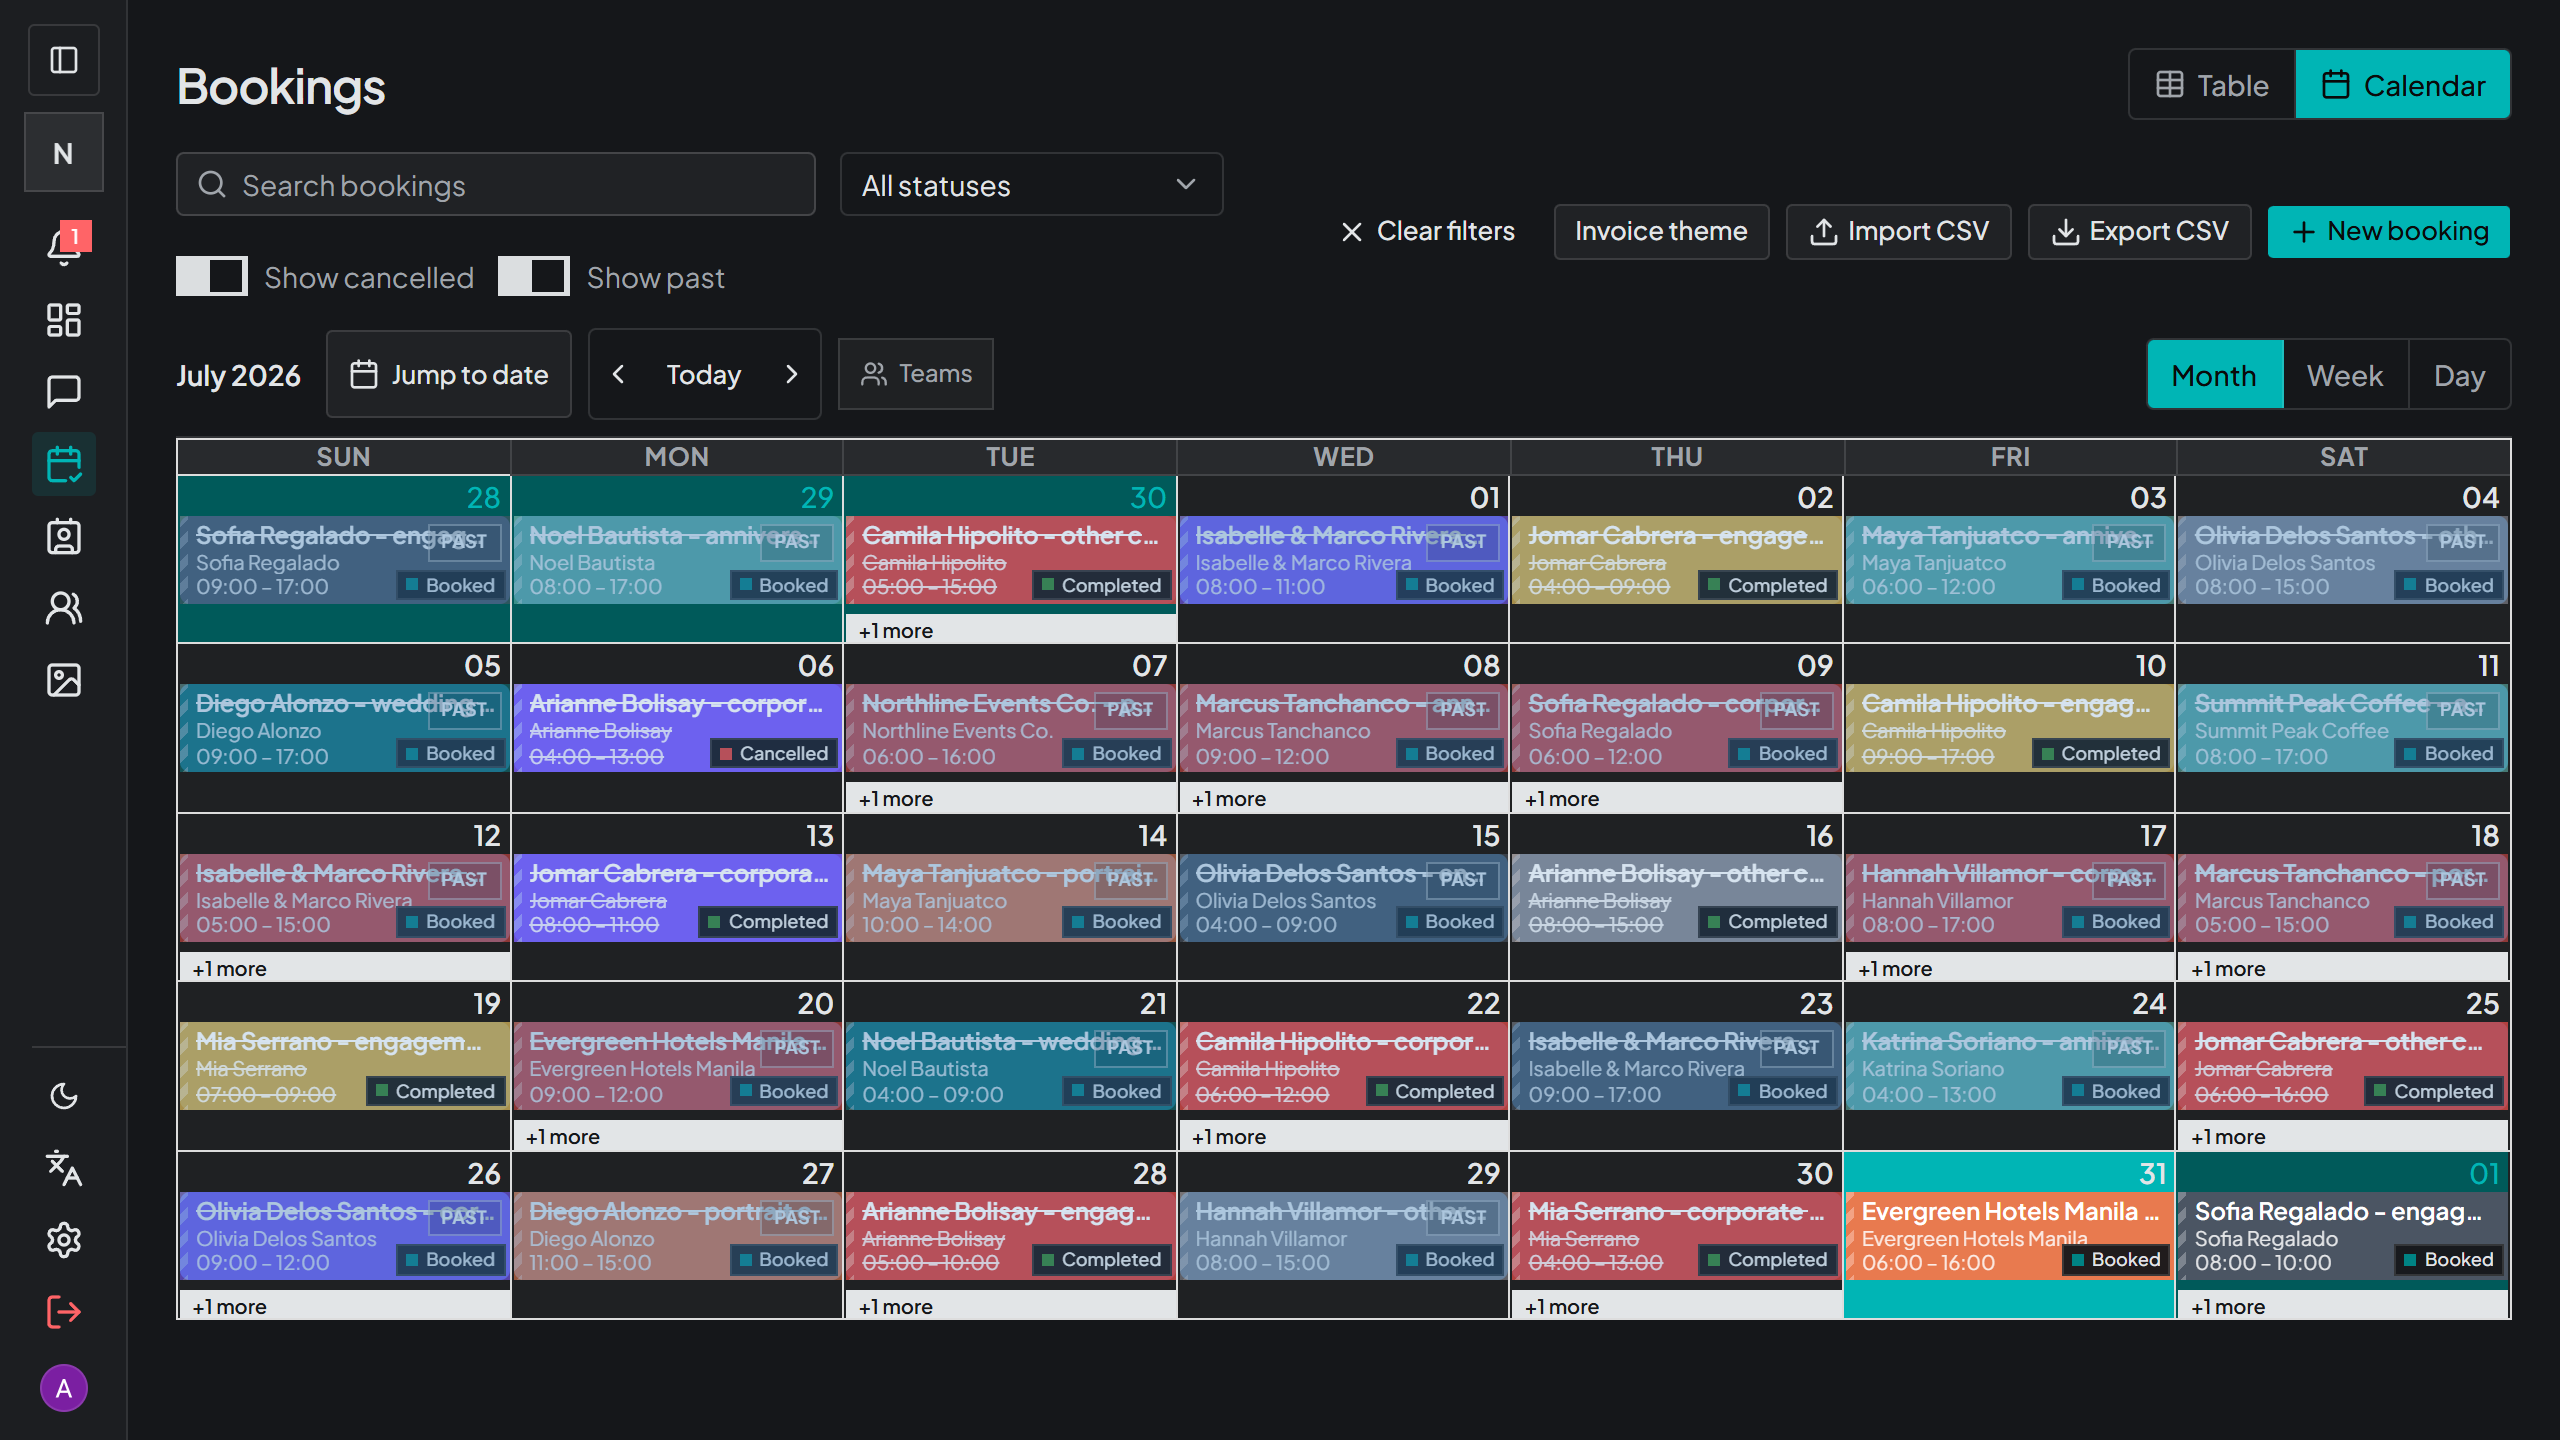
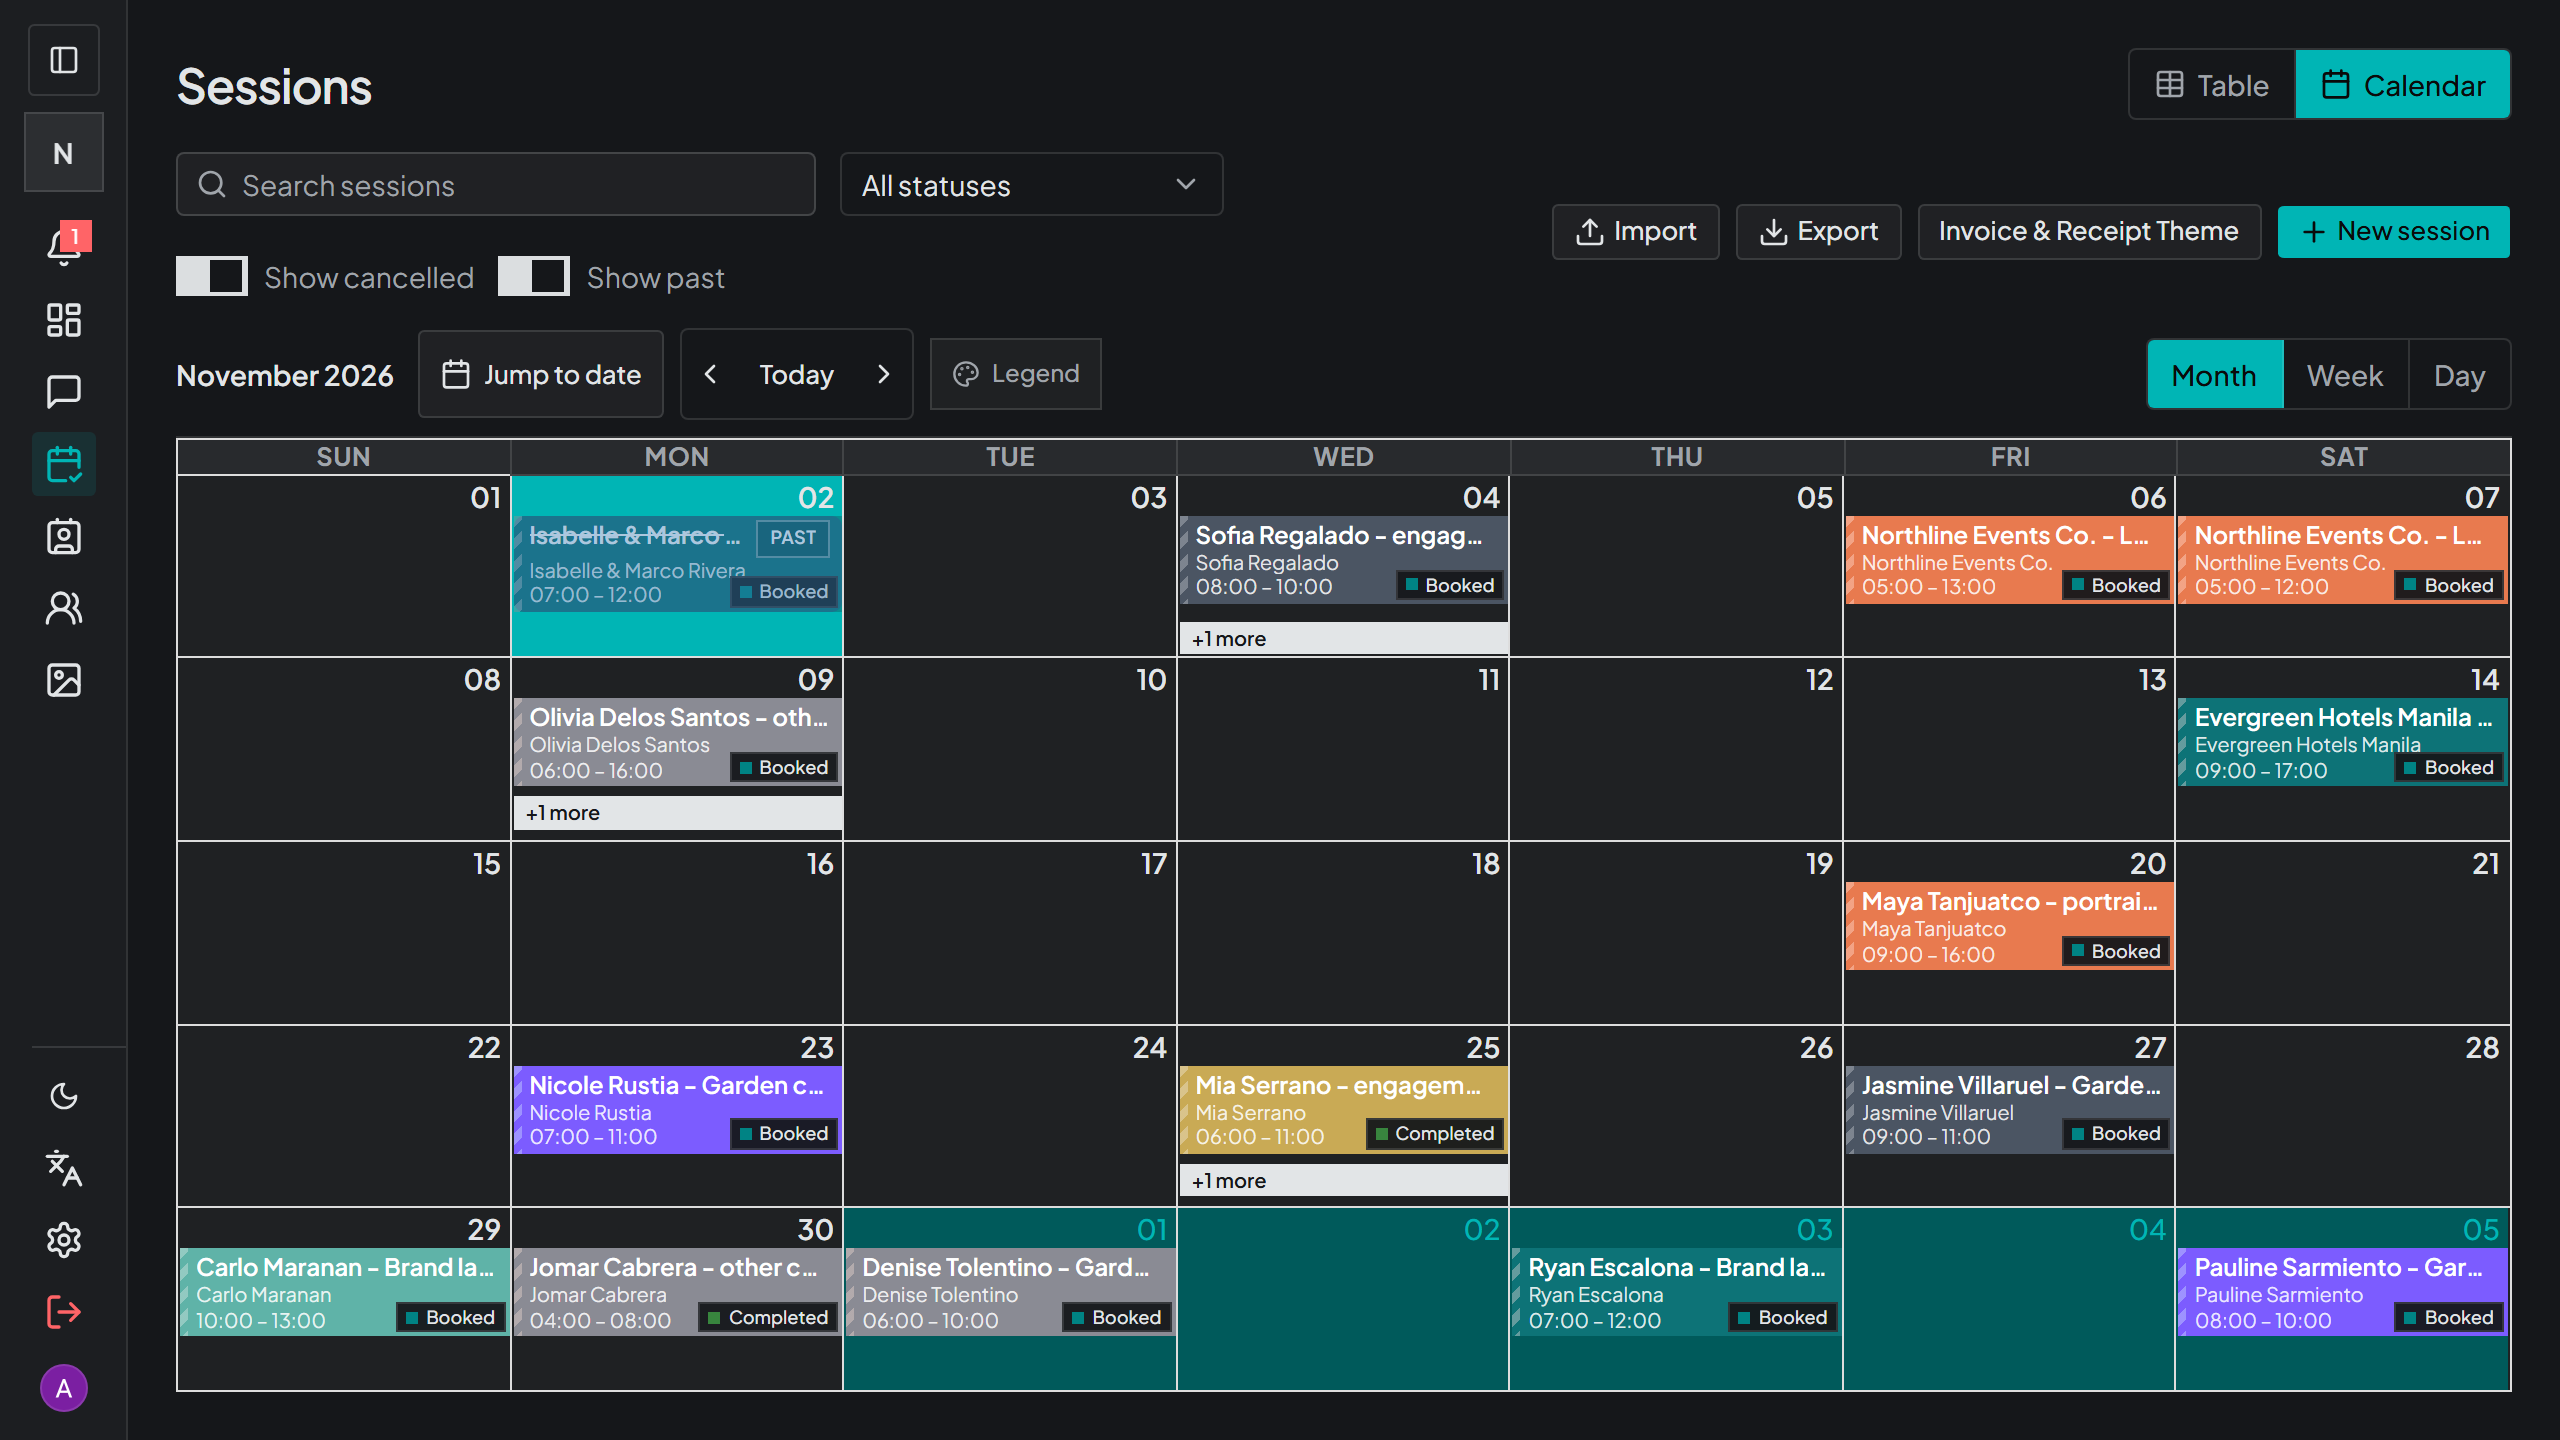
chore(seed): thin bookings around today; refresh calendar marketing shots

diff --git a/lib/db/seed.ts b/lib/db/seed.ts
@@ -871,7 +871,17 @@ async function createBookingsAndTransactions(
     });
   }).flat();
 
-  const allSpecs = [...featured, ...generated];
+  // Keep the heatmap history dense, but thin the window around today to what a
+  // small studio actually books (a few jobs a week) so the calendar views read
+  // as uncluttered in screenshots.
+  const SPARSE_WINDOW_START = -35;
+  const SPARSE_WINDOW_END = 60;
+  const generatedForSeed = generated.filter((spec, index) => {
+    const dayDelta = Math.round((spec.sessions[0]!.startAt.getTime() - Date.now()) / 86_400_000);
+    return dayDelta < SPARSE_WINDOW_START || dayDelta > SPARSE_WINDOW_END || index % 7 === 0;
+  });
+
+  const allSpecs = [...featured, ...generatedForSeed];
 
   const bookings = await Booking.insertMany(
     allSpecs.map((spec, index) => {
